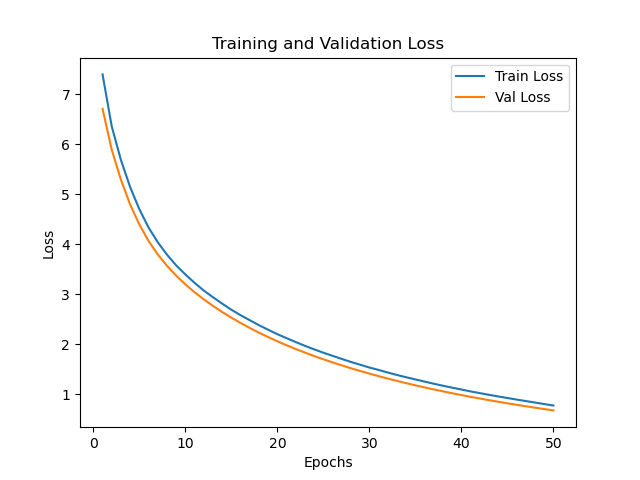
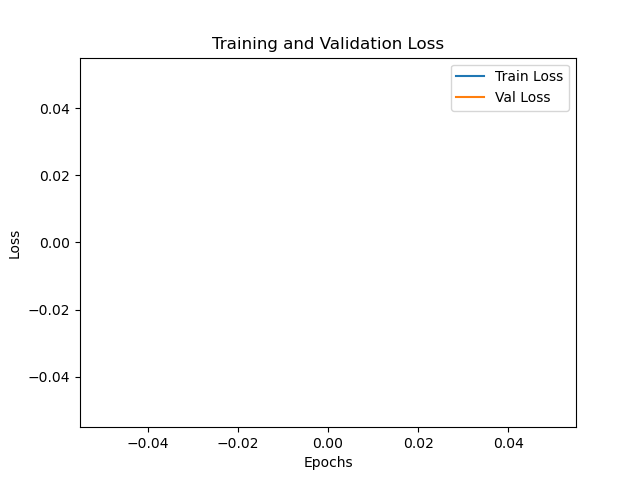
1
1

diff --git a/envu.py b/envu.py
@@ -49,48 +49,71 @@ def load_model(checkpoint_path, device):
     return model, src_vocab, tgt_vocab
 
 # 修正翻译函数
-def translate(model, src_text, src_vocab, tgt_vocab, device, max_len=50):
-    # 1. 预处理输入文本（确保长度不超过max_len）
-    src_tokens = tokenize_en(src_text)
-    src_ids = [src_vocab.token2idx['<sos>']] + src_vocab.convert_tokens_to_ids(src_tokens) + [src_vocab.token2idx['<eos>']]
+def translate(model, src_text, src_vocab, tgt_vocab, device, max_len=50, batch_size=8):
+    """
+    兼容单文本输入的批量翻译函数（修复类型错误）
+    :param src_text: 单个源文本字符串（原调用方式）
+    """
+    # 关键修复：将单文本转为列表，适配批量逻辑
+    src_texts = [src_text]  # 把单个字符串转为长度为1的列表
+    
+    # 0. 补全到batch_size（不足则用空文本填充）
+    pad_text = ""  # 空文本
+    if len(src_texts) < batch_size:
+        # 补全空文本到batch_size
+        src_texts += [pad_text] * (batch_size - len(src_texts))
+    
+    # 1. 批量预处理输入文本
+    src_ids_batch = []
     pad_idx = src_vocab.token2idx['<pad>']
+    sos_idx = src_vocab.token2idx['<sos>']
+    eos_idx = src_vocab.token2idx['<eos>']
     
-    # 关键修正：截断/补全到max_len，确保维度正确
-    if len(src_ids) > max_len:
-        src_ids = src_ids[:max_len]
-    else:
-        src_ids += [pad_idx] * (max_len - len(src_ids))
+    for text in src_texts:
+        src_tokens = tokenize_en(text)
+        src_ids = [sos_idx] + src_vocab.convert_tokens_to_ids(src_tokens) + [eos_idx]
+        # 截断/补全到max_len
+        if len(src_ids) > max_len:
+            src_ids = src_ids[:max_len]
+        else:
+            src_ids += [pad_idx] * (max_len - len(src_ids))
+        src_ids_batch.append(src_ids)
     
-    # 添加batch维度：[1, max_len]
-    src_input = torch.tensor(src_ids, dtype=torch.long).unsqueeze(0).to(device)
+    # 转换为batch张量：[8, max_len]
+    src_input = torch.tensor(src_ids_batch, dtype=torch.long).to(device)
     
-    # 2. 初始化目标序列（仅<sos>，长度1）
-    tgt_input = torch.tensor([[tgt_vocab.token2idx['<sos>']]], dtype=torch.long).to(device)
+    # 2. 初始化目标序列：[8, 1]
+    tgt_input = torch.tensor([[tgt_vocab.token2idx['<sos>']]] * batch_size, dtype=torch.long).to(device)
     
-    # 3. 自回归生成（禁用梯度）
+    # 3. 批量自回归生成
+    model.eval()  # 推理模式
     with torch.no_grad():
         for _ in range(max_len - 1):
-            # 每次生成都调用model.forward，动态生成掩码
-            output = model(src_input, tgt_input)  # [1, len(tgt_input), dec_voc_size]
-            
-            # 取最后一个token的预测结果
+            output = model(src_input, tgt_input)
+            # 取最后一个token的预测
             next_token_logits = output[:, -1, :]
             next_token_idx = torch.argmax(next_token_logits, dim=-1).unsqueeze(1)
-            
-            # 拼接新token
+            # 拼接
             tgt_input = torch.cat([tgt_input, next_token_idx], dim=1)
-            
-            # 终止条件
-            if next_token_idx.item() == tgt_vocab.token2idx['<eos>']:
+            # 检查是否所有样本都生成<eos>（提前终止）
+            eos_mask = (next_token_idx == tgt_vocab.token2idx['<eos>']).squeeze(1)
+            if torch.all(eos_mask):
                 break
     
-    # 4. 解码结果
-    tgt_ids = tgt_input.squeeze(0).cpu().numpy()
+    # 4. 解码结果（只取第一个样本的结果，因为输入是单文本）
+    tgt_eos_idx = tgt_vocab.token2idx['<eos>']
+    tgt_sos_idx = tgt_vocab.token2idx['<sos>']
+    tgt_pad_idx = tgt_vocab.token2idx['<pad>']
+    
+    # 只解码第一个样本（对应输入的src_text）
+    tgt_ids = tgt_input[0].cpu().numpy()
     tgt_tokens = []
     for idx in tgt_ids:
         token = tgt_vocab.idx2token.get(idx, '<unk>')
-        if token in ['<pad>', '<sos>', '<eos>']:
+        if token in ['<sos>', '<pad>']:
             continue
+        if token == '<eos>':
+            break
         tgt_tokens.append(token)
     
     return ' '.join(tgt_tokens)

diff --git a/transformer.py b/transformer.py
@@ -4,7 +4,7 @@ import torch.nn.functional as F
 import math
 
 import layernorm as ly
-from attention import MutiHeadAttention
+from attention import MultiHeadAttention
 import tokeners as tk
 import encoder as enc
 import decoder as dec
@@ -20,19 +20,54 @@ class Transformer(nn.Module):
         self.device = device
     
     def make_pad_mask(self, q, k, pad_idx_q, pad_idx_k):
+
+        batch_size = q.size(0)
         len_q, len_k = q.size(1), k.size(1)
-        k_pad_mask = k.eq(pad_idx_k).unsqueeze(1).unsqueeze(2)
-        q_pad_mask = q.eq(pad_idx_q).unsqueeze(1).unsqueeze(3)
-        pad_mask = k_pad_mask | q_pad_mask
-        return pad_mask.expand(-1, self.num_heads, len_q, len_k)
+        
+        # 1. 生成K的填充掩码 [batch, 1, 1, len_k] → 广播到 [batch, 1, len_q, len_k]
+        k_pad_mask = k.eq(pad_idx_k).unsqueeze(1).unsqueeze(2)  # [batch,1,1,len_k]
+        # 2. 生成Q的填充掩码 [batch, 1, len_q, 1] → 广播到 [batch, 1, len_q, len_k]
+        q_pad_mask = q.eq(pad_idx_q).unsqueeze(1).unsqueeze(3)  # [batch,1,len_q,1]
+        # 3. 合并掩码（True表示填充位，需要遮挡）
+        pad_mask = k_pad_mask | q_pad_mask  # [batch,1,len_q,len_k]
+        
+        # 4. 扩展到num_heads维度（核心：只扩展num_heads，不修改len_q/len_k）
+        pad_mask = pad_mask.expand(batch_size, self.num_heads, len_q, len_k)
+        pad_mask = pad_mask.to(self.device)
+        
+        return pad_mask
+
     def make_causal_mask(self, q, k):
+
+        batch_size = q.size(0)
         len_q, len_k = q.size(1), k.size(1)
-        mask = torch.tril(torch.ones(len_q, len_k)).bool().to(self.device)
-        return mask.unsqueeze(0).unsqueeze(1).expand(q.size(0), self.num_heads, len_q, len_k)
+        
+        # 1. 生成下三角掩码（适配len_q≠len_k的场景）
+        # 推理时len_q=1、len_k=50 → 生成1×50的掩码，仅第一列True
+        causal_mask = torch.tril(torch.ones((len_q, len_k), dtype=torch.bool, device=self.device))
+        
+        # 2. 扩展维度到 [batch, num_heads, len_q, len_k]
+        causal_mask = causal_mask.unsqueeze(0).unsqueeze(1)  # [1,1,len_q,len_k]
+        causal_mask = causal_mask.expand(batch_size, self.num_heads, len_q, len_k)
+        
+        return causal_mask
 
     def forward(self, src_input, tgt_input):
-        src_mask = self.make_pad_mask(src_input, src_input, self.src_pad_idx, self.src_pad_idx)
-        tgt_mask = self.make_pad_mask(tgt_input, tgt_input, self.trg_pad_idx, self.trg_pad_idx) & self.make_causal_mask(tgt_input, tgt_input)
-        enc_output = self.encoder(src_input, src_mask)
-        dec_output = self.decoder(tgt_input, enc_output, src_mask, tgt_mask)
+
+        # ========== 1. 编码器掩码：源序列自注意力掩码 ==========
+        src_mask_enc = self.make_pad_mask(src_input, src_input, self.src_pad_idx, self.src_pad_idx)
+        enc_output = self.encoder(src_input, src_mask_enc)  # [B,Ls,d_model]
+        
+        # ========== 2. 解码器自注意力掩码：填充+因果 ==========
+        tgt_pad_mask = self.make_pad_mask(tgt_input, tgt_input, self.trg_pad_idx, self.trg_pad_idx)
+        tgt_causal_mask = self.make_causal_mask(tgt_input, tgt_input)
+        tgt_mask_dec = tgt_pad_mask & tgt_causal_mask  # [B,H,Lt,Lt]
+        
+        # ========== 3. 解码器跨注意力掩码：源-目标填充掩码 ==========
+        # 关键：Q=解码器输入（Lt），K=编码器输出（Ls），生成[B,H,Lt,Ls]的掩码
+        src_mask_dec = self.make_pad_mask(tgt_input, src_input, self.trg_pad_idx, self.src_pad_idx)
+        
+
+        # ========== 解码器前向传播 ==========
+        dec_output = self.decoder(tgt_input, enc_output, src_mask_dec, tgt_mask_dec)
         return dec_output

diff --git a/attention.py b/attention.py
@@ -4,9 +4,9 @@ import torch.nn.functional as F
 import math
 
 
-class MutiHeadAttention(nn.Module):
+class MultiHeadAttention(nn.Module):
     def __init__(self, d_model, num_heads):
-        super(MutiHeadAttention, self).__init__()
+        super(MultiHeadAttention, self).__init__()
         self.d_model = d_model
         self.num_heads = num_heads
         self.w_q = nn.Linear(d_model, d_model)
@@ -15,19 +15,30 @@ class MutiHeadAttention(nn.Module):
         self.w_combine = nn.Linear(d_model, d_model)
         self.softmax = nn.Softmax(dim=-1)
     def forward(self, q, k, v, mask=None):
-        batch, seq_len, dimension = q.size()
-        n_d = self.d_model // self.num_heads
-        q, k, v = self.w_q(q), self.w_k(k), self.w_v(v)
-        q = q.view(batch, seq_len, self.num_heads, n_d).transpose(1, 2)
-        k = k.view(batch, seq_len, self.num_heads, n_d).transpose(1, 2)
-        v = v.view(batch, seq_len, self.num_heads, n_d).transpose(1, 2)
-        score = torch.matmul(q, k.transpose(-2, -1)) / math.sqrt(n_d)
+        batch_size = q.size(0)
+        # 线性变换并分头
+        q = self.w_q(q).view(batch_size, q.size(1), self.num_heads, self.d_model // self.num_heads).transpose(1, 2)
+        k = self.w_k(k).view(batch_size, k.size(1), self.num_heads, self.d_model // self.num_heads).transpose(1, 2)
+        v = self.w_v(v).view(batch_size, v.size(1), self.num_heads, self.d_model // self.num_heads).transpose(1, 2)
+
+        seq_len_q = q.size(2)  # 注意：这里固定seq_len_q，避免-1导致的维度错误
+        seq_len_k = k.size(2)  # 注意：这里固定seq_len_k
+        
+        
+        # Scaled Dot-Product Attention
+        scores = torch.matmul(q, k.transpose(-2, -1)) / math.sqrt(self.d_model // self.num_heads)
+        
         if mask is not None:
-            score = score.masked_fill(mask == 0, -1e9)
-            score = self.softmax(score)
-        output = torch.matmul(score, v)
-        output = output.transpose(1, 2).contiguous().view(batch, seq_len, self.d_model)
-        output = self.w_combine(output)
+            scores = scores.masked_fill(mask == True, float('-inf'))
+        
+        attn_weights = self.softmax(scores)
+        attn_output = torch.matmul(attn_weights, v)
+       
+          # 3. 合并多头（核心修复！固定seq_len_q，避免-1导致的维度错误）
+        attn_output = attn_output.transpose(1, 2).contiguous()  # [8,50,8,16]
+        attn_output = attn_output.view(batch_size, seq_len_q, self.d_model)  # [8,50,128]（和输入x形状一致）
+        
+        output = self.w_combine(attn_output)
         return output
     
 

diff --git a/decoder.py b/decoder.py
@@ -4,17 +4,17 @@ import torch.nn.functional as F
 import math
 
 import layernorm as ly
-from attention import MutiHeadAttention
+from attention import MultiHeadAttention
 import tokeners as tk
 import encoder as enc
 
 class DecoderLayer(nn.Module):
     def __init__(self, d_model, num_heads, d_ff, dropout=0.1):
         super(DecoderLayer, self).__init__()
-        self.self_attention = MutiHeadAttention(d_model, num_heads)
+        self.self_attention = MultiHeadAttention(d_model, num_heads)
         self.norm_1 = ly.LayerNorm(d_model)
         self.dropout1 = nn.Dropout(dropout)
-        self.enc_dec_attention = MutiHeadAttention(d_model, num_heads)
+        self.enc_dec_attention = MultiHeadAttention(d_model, num_heads)
         self.norm_2 = ly.LayerNorm(d_model)
         self.dropout2 = nn.Dropout(dropout)
         self.feed_forward = enc.PositionwiseFeedForward(d_model, d_ff, dropout)

diff --git a/encoder.py b/encoder.py
@@ -4,7 +4,7 @@ import torch.nn.functional as F
 import math
 
 import layernorm as ly
-from attention import MutiHeadAttention
+from attention import MultiHeadAttention
 import tokeners as tk
 
 class PositionwiseFeedForward(nn.Module):
@@ -24,7 +24,7 @@ class PositionwiseFeedForward(nn.Module):
 class EncoderLayer(nn.Module):
     def __init__(self, d_model, num_heads, d_ff, dropout=0.1):
         super(EncoderLayer, self).__init__()
-        self.self_attention = MutiHeadAttention(d_model, num_heads)
+        self.self_attention = MultiHeadAttention(d_model, num_heads)
         self.norm_1 = ly.LayerNorm(d_model)
         self.dropout1 = nn.Dropout(dropout)
         self.feed_forward = PositionwiseFeedForward(d_model, d_ff, dropout)
